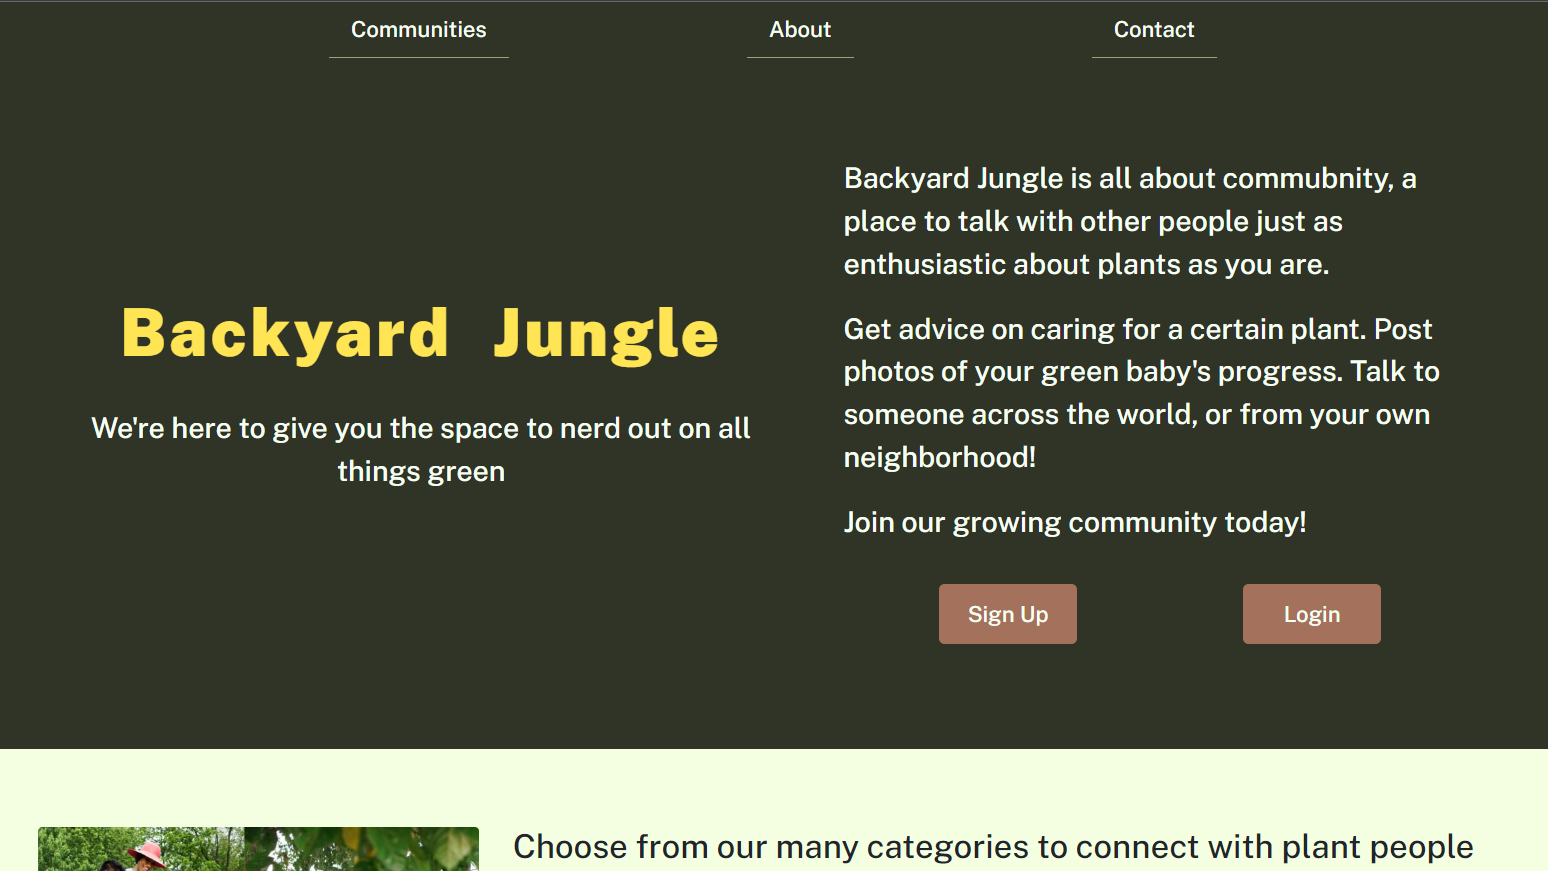
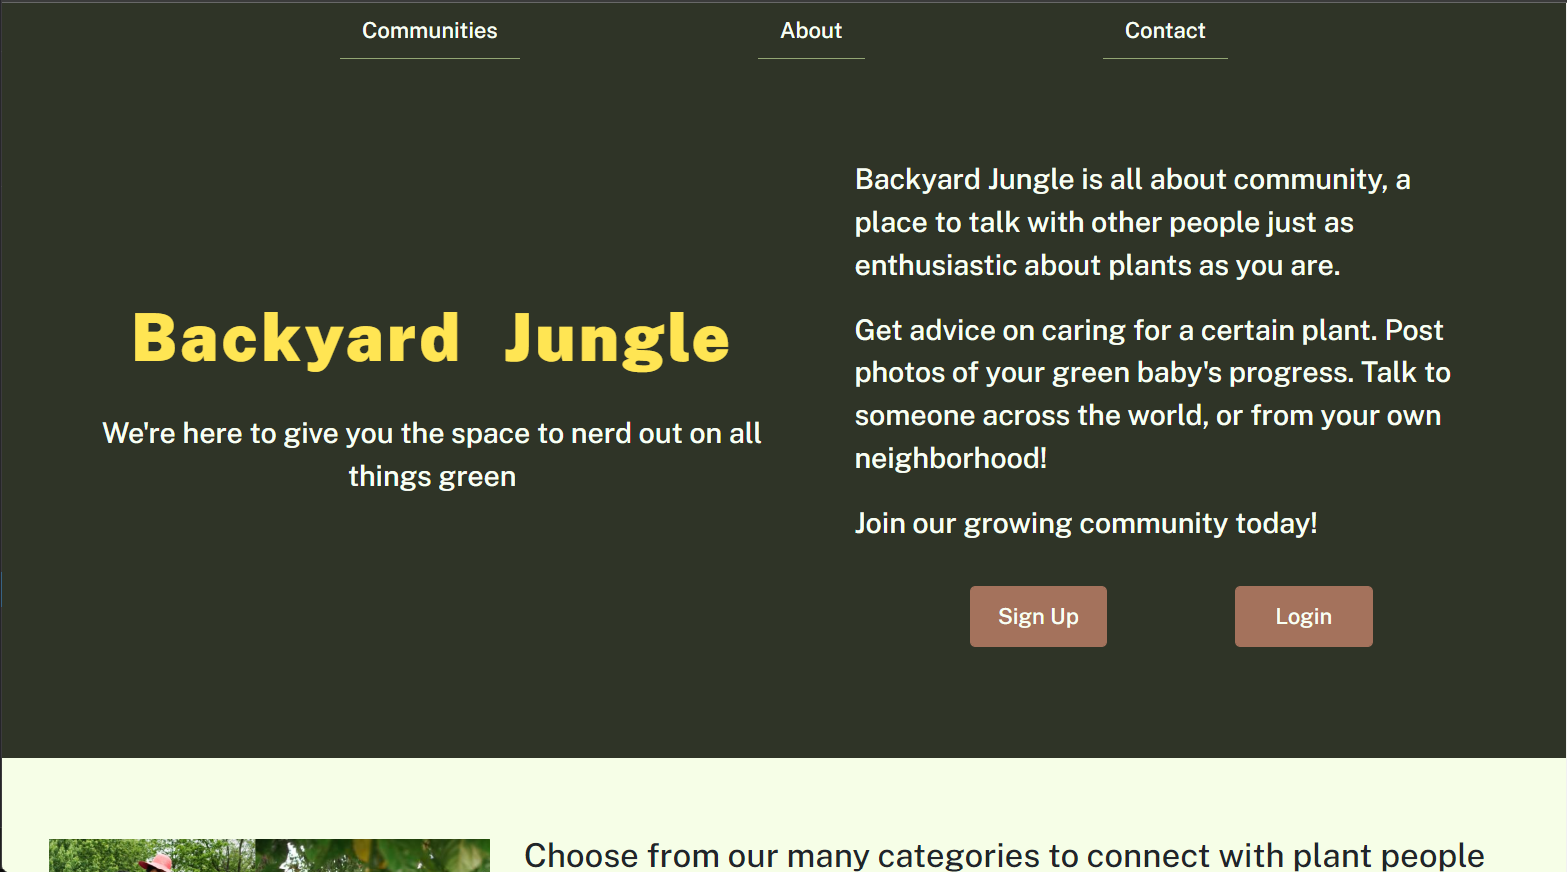
css'd contact, added an about for each person. added img for contact page and added that screenshot to the readme. corrected typo on the home page.

diff --git a/public/css/main.css b/public/css/main.css
@@ -3,8 +3,8 @@
     --dark: #223F4F;
     --dark-middle: #2f3427;
     --middle: #93a674;
-    --light: #f4ffe1;
-    --offWhite: #f6fff3;
+    --light: #f6fee7;
+    --offWhite: #f8fff4;
     --standoutDark: #a4725c;
     --standoutBright: #ffe553;
     --touches: #e979a0;
@@ -514,13 +514,12 @@ img {
 }
 
 .post-card {
+    min-width: 400px;
     height: fit-content;
     margin: 0 5% 3% 5%;
     padding: 0 0 1% 1%;
     color: var(--offWhite);
     background-color: var(--dark-middle);
-    border-top: 1px solid var(--dark-middle);
-    border-left: 1px solid var(--dark-middle);
     border-top-left-radius: 5px;
 }
 
@@ -610,19 +609,25 @@ img {
 
 
 /* ***************************************************** CONTACT ***************************************************** */
-.contact-content { 
-    width: 900px;
+.contect-page { 
     display: flex;
-    justify-content: space-between;
+    justify-content: center;
 }
 
-.contact-content-lower { 
+.contact-content { 
+    padding-top: 3%;
+    display: flex;
+    flex-wrap: wrap;
+    justify-content: space-around;
+}
+
+/* .contact-content-lower { 
     width: 900px;
     display: flex;
     justify-content: space-evenly;
-}
+} */
 
-.name{ 
+/* .name{ 
     width: 100%;
     height: 1px;
     margin: 0px auto;
@@ -630,7 +635,7 @@ img {
     background-color: var(--dark);
     display: block;
     content: "";
-}
+} */
 
 .team-tile { 
     width: 30%;
@@ -649,12 +654,24 @@ img {
     padding: 3%;
 }
 
-.team-tile a { 
+.contact-content .card-title { 
+    display: flex;
+}
+.contact-content .card-title svg { 
+    margin: 1.5% 3%;
+}
+
+.post-body a { 
     color: var(--standoutDark);
 }
 
-.team-tile a:hover { 
+.post-body a:hover { 
     color: var(--dark);
+}
+
+.contact-page .post-card { 
+    max-width: 450px;
+    min-height: 300px;
 }
 
 

diff --git a/readme.md b/readme.md
@@ -5,10 +5,6 @@ Welcome to the GitHub page for Backyard Jungle, the site for all plant lovers!
 This repository is a fork of a group project. I am the sole contributor to this fork. The names of previous contributors are listed in the contact section below. 
 
 
-![image](./public/img/BG_Home.png)
-![image](./public/img/BG_About.png)
-![image](./public/img/BG_Specific-Forum.png)
-
 ## Built with:
 -HTML
 
@@ -33,6 +29,13 @@ This repository is a fork of a group project. I am the sole contributor to this 
 -mysql2
 
 -Dotenv
+
+
+![image](./public/img/BG_Home.png)
+![image](./public/img/BG_About.png)
+![image](./public/img/BG_Contact.png)
+![image](./public/img/BG_Specific-Forum.png)
+
 
 ## Usage
  Using our site plant lovers may look up flowers, trees, and all sorts of plants thant they are interested in. They can chose to add them to their garden (or collection of plants). Users can also learn about species of plants and join communities where other garden-lovers, tree-lovers, sustainable-food-lovers post tips and tricks on their growing techniques.
